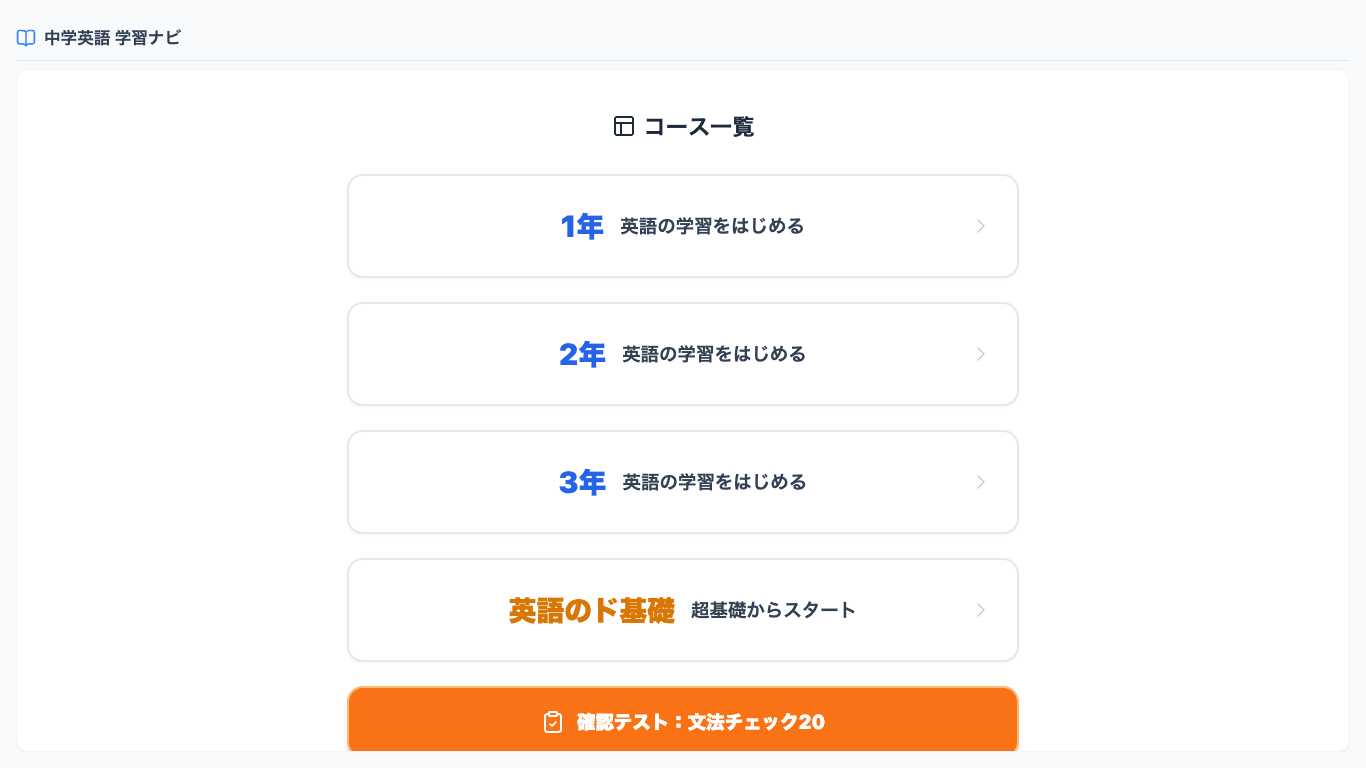
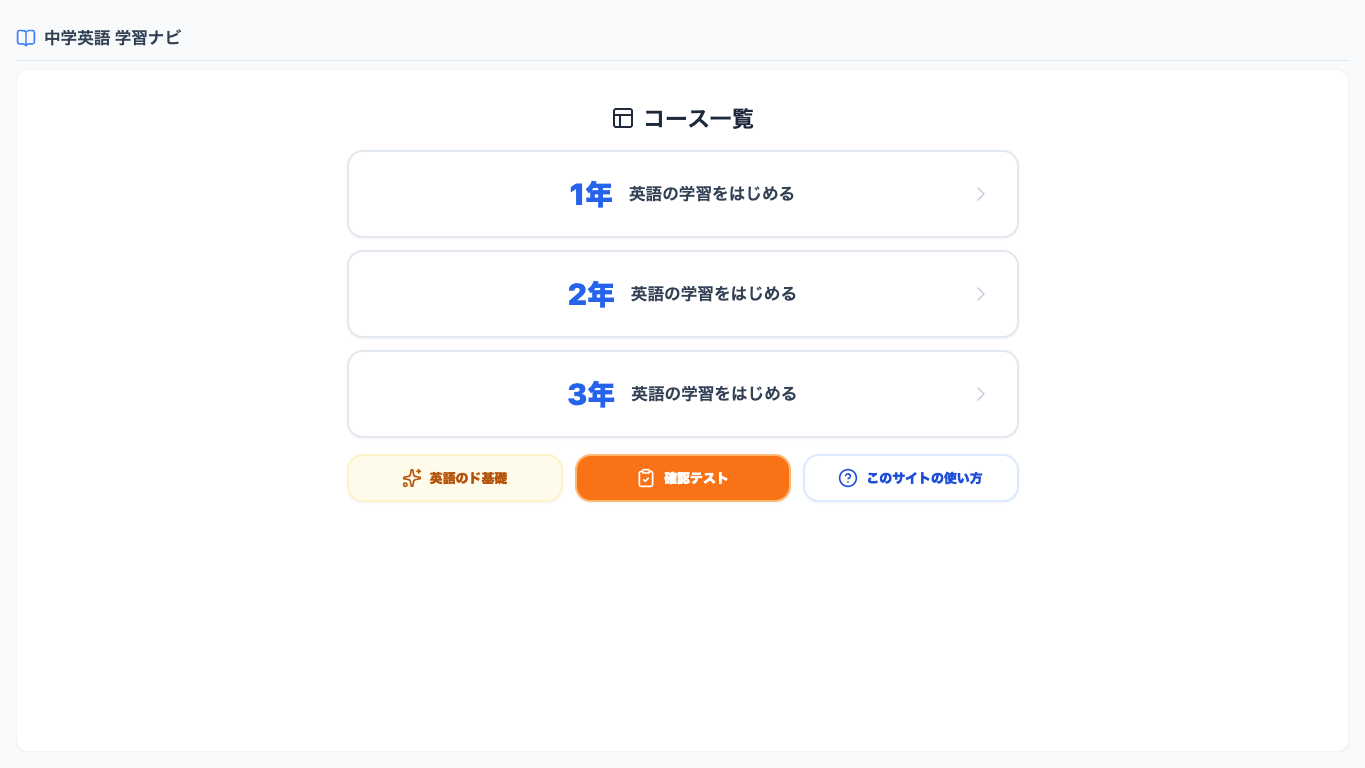
Fix how-to screenshot and mode button hover

diff --git a/index.html b/index.html
@@ -99,6 +99,11 @@
             color: #fff;
             border-color: #2563eb;
         }
+        .layout-mode-btn.layout-mode-active:hover {
+            background: #2563eb !important;
+            color: #fff !important;
+            border-color: #2563eb !important;
+        }
         .video-shell {
             aspect-ratio: 16 / 9;
         }
@@ -9463,7 +9468,7 @@ const HOW_TO_USE_SLIDES = [
         alt: "Grammar Slide のタイトル画面",
         instruction: "最初に、学習したい学年を1つ選びます。",
         detail: "中3でも、中1・中2の内容に戻って学び直せます。今の自分に必要な場所から始めて大丈夫です。",
-        focus: { x: 21, y: 27, w: 54, h: 47, label: "ここから選ぶ", pointerX: 78, pointerY: 34, radius: 20 }
+        focus: { x: 25, y: 19, w: 50, h: 38, label: "ここから選ぶ", pointerX: 78, pointerY: 31, radius: 18 }
     },
     {
         step: 2,
